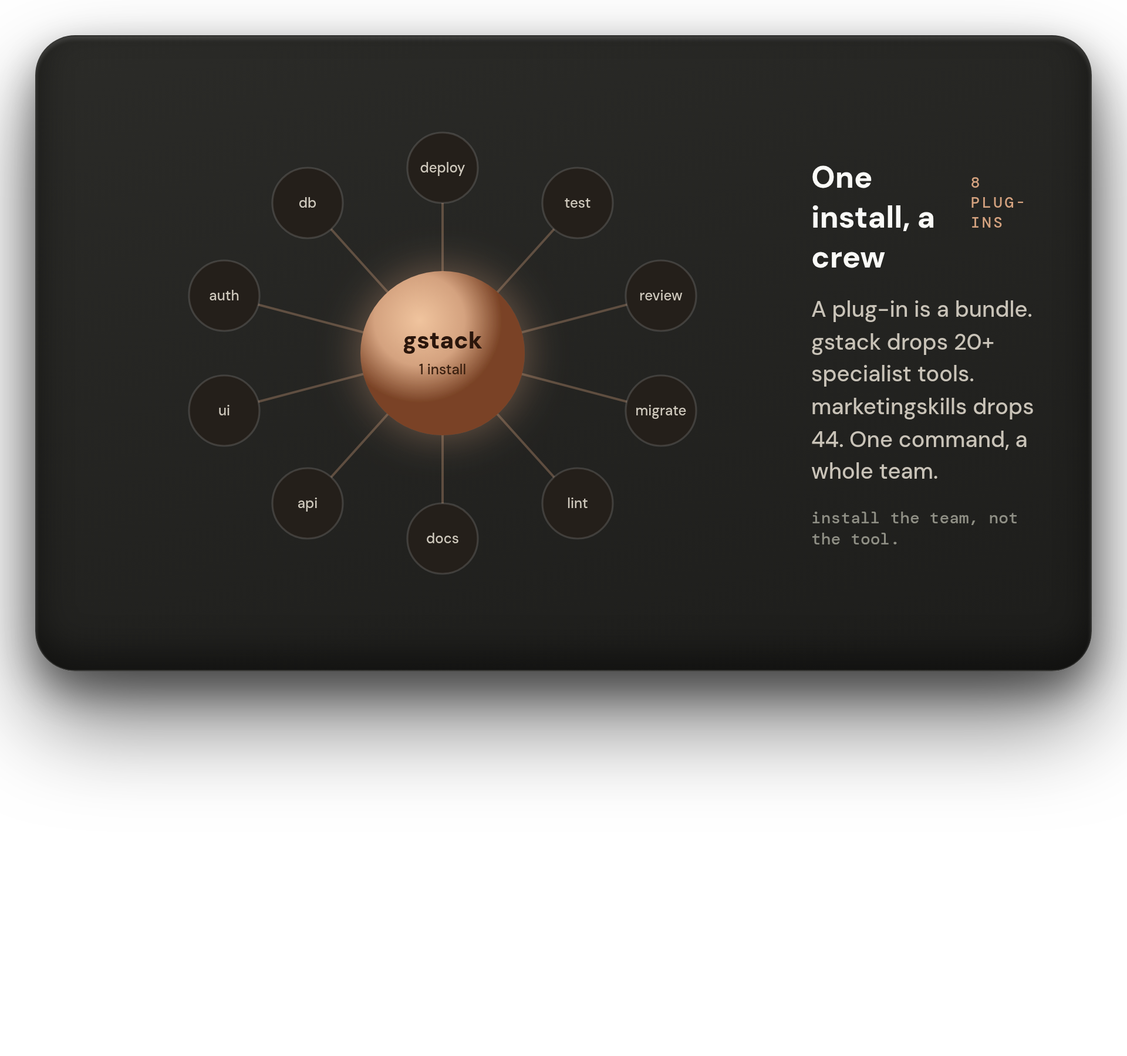
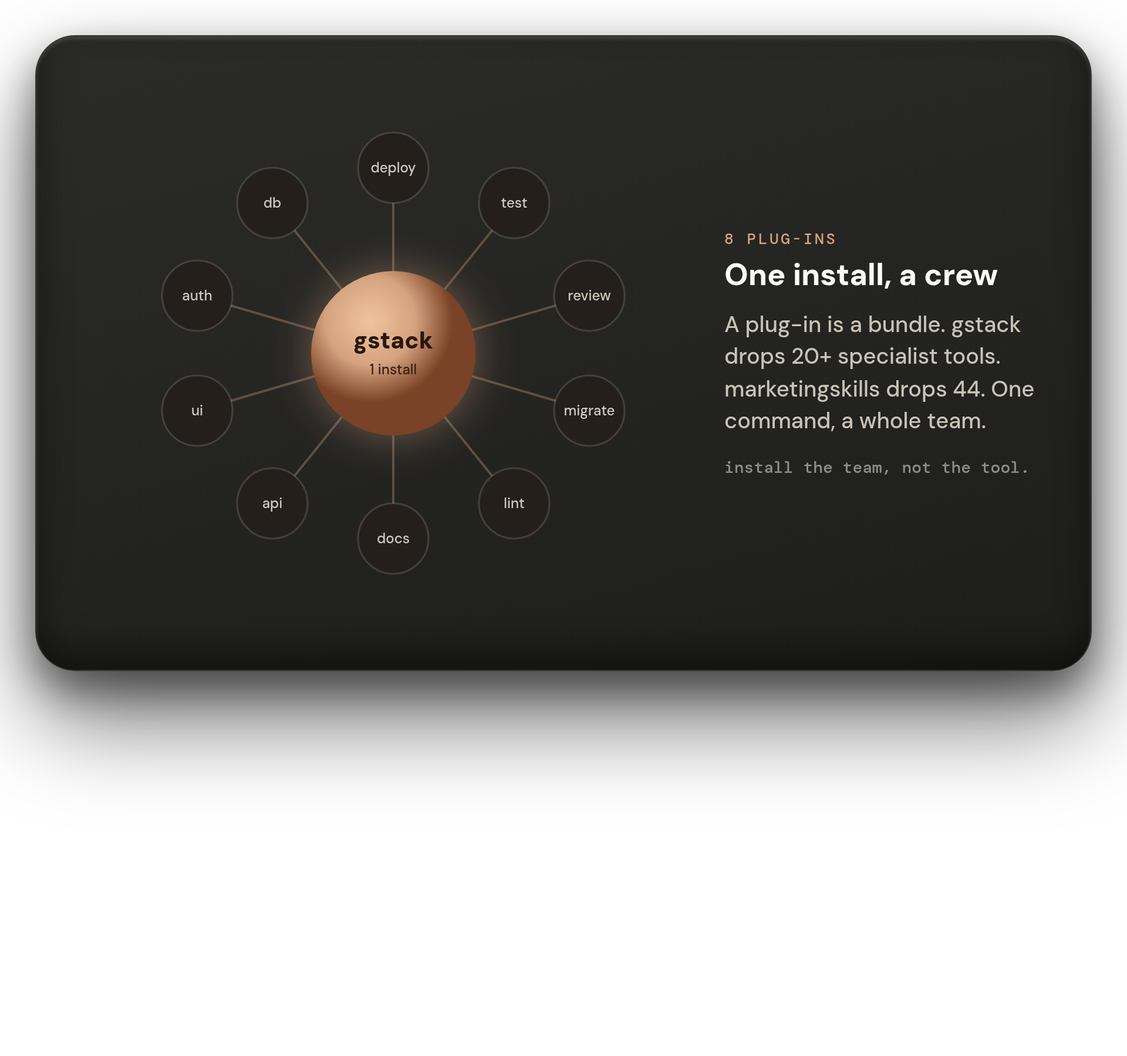
IG Scraped 3: panels sweep (29/41)
Claude-Session: https://claude.ai/code/session_014kd6D8JB5VW3pfqpgRb2H7

diff --git a/content/_hitl-src/s3src41_t3.py b/content/_hitl-src/s3src41_t3.py
@@ -1,0 +1,256 @@
+#!/usr/bin/env python3
+# HAND IT THE KEYS - IG Scraped s3src41 ("10 skills / tools to build a $10M business",
+# a list of self-hosted open-source AI agents that "actually do things") adapted to the
+# WIRE-ITS-EYES bar. The real subject: an AI that takes real actions holds the keys to your
+# business. 8 unique hand-built coded scenes, one Ultron capability each, all gated by you.
+import importlib.util, os, math
+from playwright.sync_api import sync_playwright
+ROOT="/home/user/tiberiu-claude"
+L=importlib.util.spec_from_file_location("L",f"{ROOT}/content/_hitl-src/clay3d_v4.py")
+Lm=importlib.util.module_from_spec(L); L.loader.exec_module(Lm)
+ACC="212,162,127"
+CARD='background:linear-gradient(165deg,#2b2b28,#1d1d1b);border:1px solid rgba(255,255,255,.07);border-radius:34px;box-shadow:0 42px 80px rgba(0,0,0,.55),0 16px 34px rgba(0,0,0,.44), inset 0 2.5px 3px rgba(255,255,255,.12), inset 0 -14px 30px rgba(0,0,0,.45)'
+CARDIV='background:linear-gradient(160deg,#fdfbf6,#efe6d5 62%,#e6dac4);border:1px solid rgba(120,95,60,.16);border-radius:34px;box-shadow:0 40px 70px rgba(120,95,60,.20),0 14px 28px rgba(120,95,60,.14), inset 0 2px 3px rgba(255,255,255,.95), inset 0 -16px 34px rgba(150,120,80,.12)'
+def htitle(t,tag,ink="#FAFAF7"): return (f'<div style="display:flex;align-items:baseline;justify-content:space-between;margin-bottom:14px">'
+    f'<span style="font-family:\'DM Sans\';font-weight:800;font-size:26px;color:{ink}">{t}</span>'
+    f'<span style="font-family:\'DM Mono\';font-size:13px;letter-spacing:.14em;color:rgb({ACC})">{tag}</span></div>')
+def cap(t,c="#8f8f85"): return f'<div style="font-family:\'DM Mono\';font-size:14px;color:{c};margin-top:16px">{t}</div>'
+
+# 1. SENDS - bezier flow: one DRAFT node fans into a 3-step sequence, converges into a lit INBOX
+def sends():
+    steps=[("Day 1","intro",96),("Day 3","nudge",230),("Day 6","break-up",364)]
+    edges=""; nodes=""
+    dx,dy=180,230; sx=350; ix=712,230
+    for lab,sub,y in steps:
+        # draft -> step
+        mx=(dx+sx)/2
+        edges+=f'<path d="M{dx} {dy} C{mx:.0f} {dy},{mx:.0f} {y},{sx} {y}" fill="none" stroke="rgba(212,162,127,.42)" stroke-width="2.4"/>'
+        # step -> inbox
+        mx2=(sx+180+ix[0])/2
+        edges+=f'<path d="M{sx+180} {y} C{mx2:.0f} {y},{mx2:.0f} {ix[1]},{ix[0]-66} {ix[1]}" fill="none" stroke="rgba(212,162,127,.42)" stroke-width="2.4"/>'
+        nodes+=(f'<rect x="{sx}" y="{y-30}" width="180" height="60" rx="14" fill="linear-gradient(160deg,#33302b,#211e1a)" fill-opacity="1" style="fill:#2a2724" stroke="rgba(255,255,255,.10)"/>'
+          f'<text x="{sx+20}" y="{y-4}" font-family="DM Mono" font-size="13" letter-spacing=".12em" fill="rgb({ACC})">{lab.upper()}</text>'
+          f'<text x="{sx+20}" y="{y+18}" font-family="DM Sans" font-weight="700" font-size="18" fill="#eae4d8">{sub}</text>')
+    return f'''<div style="width:900px;{CARD};padding:34px 40px 34px">
+      {htitle("It sends, not suggests","SPECTER · OUTBOUND")}
+      <svg width="820" height="460" viewBox="0 0 820 460" style="display:block">
+        <defs><radialGradient id="ib" cx="36%" cy="30%"><stop offset="0%" stop-color="#f0c49e"/><stop offset="55%" stop-color="rgb({ACC})"/><stop offset="100%" stop-color="#7a4326"/></radialGradient>
+        <filter id="ig1" x="-80%" y="-80%" width="260%" height="260%"><feDropShadow dx="0" dy="0" stdDeviation="16" flood-color="rgb({ACC})" flood-opacity="0.45"/></filter></defs>
+        {edges}
+        <rect x="30" y="{dy-34}" width="150" height="68" rx="15" fill="#221f1b" stroke="rgba(212,162,127,.34)"/>
+        <text x="105" y="{dy-6}" text-anchor="middle" font-family="DM Mono" font-size="12.5" letter-spacing=".12em" fill="rgb({ACC})">DRAFT</text>
+        <text x="105" y="{dy+16}" text-anchor="middle" font-family="DM Sans" font-weight="800" font-size="16" fill="#FAFAF7">one line</text>
+        {nodes}
+        <g filter="url(#ig1)"><circle cx="{ix[0]}" cy="{ix[1]}" r="66" fill="url(#ib)"/></g>
+        <text x="{ix[0]}" y="{ix[1]-4}" text-anchor="middle" font-family="DM Sans" font-weight="900" font-size="20" fill="#1a0f0a">SENT</text>
+        <text x="{ix[0]}" y="{ix[1]+18}" text-anchor="middle" font-family="DM Mono" font-size="11" fill="#3a2010">all 3 live</text>
+      </svg>
+      {cap("one line becomes a five-touch sequence, written and delivered.")}</div>'''
+
+# 2. BOOKS - IVORY week calendar grid, one slot booked with a confirm check
+def books():
+    days=["MON","TUE","WED","THU","FRI"]
+    rowsY=[92,150,208,266]; times=["09:00","10:30","12:00","14:00"]
+    colX=[60,196,332,468,604]; cw=118
+    grid=""
+    for ci,d in enumerate(days):
+        grid+=f'<text x="{colX[ci]+cw/2}" y="66" text-anchor="middle" font-family="DM Mono" font-size="14" letter-spacing=".1em" fill="{"#96562d" if d=="THU" else "#9c8a70"}">{d}</text>'
+    for ri,ty in enumerate(times):
+        grid+=f'<text x="30" y="{rowsY[ri]+34}" font-family="DM Mono" font-size="11.5" fill="#a89572">{ty}</text>'
+        for ci in range(5):
+            booked=(ci==3 and ri==1)
+            if booked: continue
+            grid+=f'<rect x="{colX[ci]}" y="{rowsY[ri]}" width="{cw}" height="46" rx="10" fill="rgba(150,120,80,.06)" stroke="rgba(150,120,80,.20)"/>'
+    # booked cell (THU 10:30)
+    bx,by=colX[3],rowsY[1]
+    booked=(f'<rect x="{bx}" y="{by}" width="{cw}" height="46" rx="10" fill="#96562d" filter="url(#bk)"/>'
+      f'<text x="{bx+16}" y="{by+29}" font-family="DM Sans" font-weight="800" font-size="15" fill="#fdfbf6">Discovery call</text>'
+      f'<circle cx="{bx+cw-22}" cy="{by+23}" r="13" fill="#fdfbf6"/>'
+      f'<path d="M{bx+cw-28} {by+23} l4 4 l8 -9" fill="none" stroke="#96562d" stroke-width="2.6" stroke-linecap="round" stroke-linejoin="round"/>')
+    return f'''<div style="width:900px;{CARDIV};padding:36px 42px 34px">
+      {htitle("The meeting, booked","LIVE CALENDAR","#2a2016")}
+      <svg width="740" height="330" viewBox="0 0 740 330" style="display:block;margin:0 auto">
+        <defs><filter id="bk" x="-60%" y="-60%" width="220%" height="220%"><feDropShadow dx="0" dy="6" stdDeviation="10" flood-color="rgba(150,90,45,.5)"/></filter></defs>
+        {grid}{booked}
+      </svg>
+      {cap("a yes turns into a held slot, no back-and-forth thread.","#8a745a")}</div>'''
+
+# 3. CONNECTS - radial switchboard: operator hub wired to 5 real app nodes, action LEDs live
+def connects():
+    cx,cy=430,232; Rr=182
+    apps=[("EMAIL","M2 5 L10 9 L18 5",-140),("CRM","P",-68),("DOCS","D",4),("CALENDAR","C",76),("PAYMENTS","$",148)]
+    spokes=""; chips=""
+    for nm,gl,a in apps:
+        x=cx+Rr*math.cos(math.radians(a)); y=cy+Rr*math.sin(math.radians(a))
+        spokes+=(f'<line x1="{cx}" y1="{cy}" x2="{x:.0f}" y2="{y:.0f}" stroke="rgba(212,162,127,.42)" stroke-width="2.6"/>'
+          f'<circle cx="{(cx+x)/2:.0f}" cy="{(cy+y)/2:.0f}" r="4.5" fill="rgb({ACC})" filter="url(#pd)"/>')
+        chips+=(f'<g><rect x="{x-70:.0f}" y="{y-27:.0f}" width="140" height="54" rx="14" fill="#2a2724" stroke="rgba(255,255,255,.11)"/>'
+          f'<circle cx="{x-46:.0f}" cy="{y:.0f}" r="7" fill="#241f1a" stroke="rgba(212,162,127,.5)" stroke-width="1.6"/>'
+          f'<circle cx="{x-46:.0f}" cy="{y:.0f}" r="3" fill="rgb({ACC})"/>'
+          f'<text x="{x-30:.0f}" y="{y+5:.0f}" font-family="DM Mono" font-size="13" letter-spacing=".08em" fill="#d9d5cc">{nm}</text>'
+          f'<circle cx="{x+58:.0f}" cy="{y-15:.0f}" r="4" fill="#c9a583"/></g>')
+    return f'''<div style="width:900px;{CARD};padding:34px 40px 34px">
+      {htitle("Wired into your stack","TOOL USE")}
+      <svg width="820" height="470" viewBox="0 0 820 470" style="display:block;margin:0 auto">
+        <defs><radialGradient id="hb3" cx="36%" cy="30%"><stop offset="0%" stop-color="#f0c49e"/><stop offset="55%" stop-color="rgb({ACC})"/><stop offset="100%" stop-color="#7a4326"/></radialGradient>
+        <filter id="hg3" x="-80%" y="-80%" width="260%" height="260%"><feDropShadow dx="0" dy="0" stdDeviation="18" flood-color="rgb({ACC})" flood-opacity="0.45"/></filter>
+        <filter id="pd" x="-300%" y="-300%" width="700%" height="700%"><feDropShadow dx="0" dy="0" stdDeviation="4" flood-color="rgb({ACC})" flood-opacity="0.9"/></filter></defs>
+        {spokes}
+        <g filter="url(#hg3)"><circle cx="{cx}" cy="{cy}" r="70" fill="url(#hb3)"/></g>
+        <text x="{cx}" y="{cy-4}" text-anchor="middle" font-family="DM Sans" font-weight="900" font-size="18" fill="#1a0f0a">OPERATOR</text>
+        <text x="{cx}" y="{cy+18}" text-anchor="middle" font-family="DM Mono" font-size="11" fill="#3a2010">one command</text>
+        {chips}
+      </svg>
+      {cap("email, crm, docs, calendar and payments, driven from one sentence.")}</div>'''
+
+# 4. BUDGET - semicircular gauge/dial: the router picks a tier, needle on SMART, cents readout
+def budget():
+    cx,cy,R=410,300,210
+    def pt(ang,r): return (cx+r*math.cos(math.radians(ang)), cy-r*math.sin(math.radians(ang)))
+    ticks=[("LITE","0.02c",150),("SMART","0.11c",90),("DEEP","0.40c",30)]
+    arc=f'<path d="M{cx-R} {cy} A{R} {R} 0 0 1 {cx+R} {cy}" fill="none" stroke="rgba(212,162,127,.18)" stroke-width="20" stroke-linecap="round"/>'
+    # lit arc up to SMART (from 180 down to 90)
+    ax,ay=pt(90,R)
+    arc+=f'<path d="M{cx-R} {cy} A{R} {R} 0 0 1 {ax:.0f} {ay:.0f}" fill="none" stroke="rgb({ACC})" stroke-width="20" stroke-linecap="round" filter="url(#gg4)"/>'
+    labels=""
+    for nm,cost,ang in ticks:
+        lx,ly=pt(ang,R+40); on=(nm=="SMART")
+        labels+=(f'<text x="{lx:.0f}" y="{ly:.0f}" text-anchor="middle" font-family="DM Mono" font-size="14" letter-spacing=".08em" fill="{"#FAFAF7" if on else "#8f8f85"}">{nm}</text>'
+          f'<text x="{lx:.0f}" y="{ly+22:.0f}" text-anchor="middle" font-family="DM Sans" font-weight="900" font-size="19" fill="{f"rgb({ACC})" if on else "#6f6a60"}">{cost}</text>')
+        tx0,ty0=pt(ang,R-12); tx1,ty1=pt(ang,R+2)
+        labels+=f'<line x1="{tx0:.0f}" y1="{ty0:.0f}" x2="{tx1:.0f}" y2="{ty1:.0f}" stroke="rgba(250,250,247,.3)" stroke-width="2"/>'
+    nx,ny=pt(90,R-34)
+    needle=(f'<line x1="{cx}" y1="{cy}" x2="{nx:.0f}" y2="{ny:.0f}" stroke="rgb({ACC})" stroke-width="6" stroke-linecap="round"/>'
+      f'<circle cx="{cx}" cy="{cy}" r="15" fill="#2a2724" stroke="rgb({ACC})" stroke-width="3"/>')
+    return f'''<div style="width:900px;{CARD};padding:34px 40px 30px">
+      {htitle("It budgets each job","MODEL ROUTER")}
+      <svg width="820" height="380" viewBox="0 0 820 380" style="display:block;margin:0 auto">
+        <defs><filter id="gg4" x="-40%" y="-40%" width="180%" height="180%"><feDropShadow dx="0" dy="0" stdDeviation="10" flood-color="rgb({ACC})" flood-opacity="0.5"/></filter></defs>
+        {arc}{labels}{needle}
+        <text x="{cx}" y="{cy+52}" text-anchor="middle" font-family="DM Sans" font-weight="900" font-size="30" fill="#FAFAF7">0.11c</text>
+        <text x="{cx}" y="{cy+78}" text-anchor="middle" font-family="DM Mono" font-size="12" letter-spacing=".1em" fill="#8f8f85">THIS JOB</text>
+      </svg>
+      {cap("lite for lookups, deep for judgement, you never pick a model.")}</div>'''
+
+# 5. VAULT - IVORY private ledger: 5 packed rows of what it remembers, each behind a lock LED
+def vault():
+    rows=[("ICP","Founder, 2-50 staff, IT and SaaS"),
+          ("PRICING","cents per token, Max at 19"),
+          ("BRAND VOICE","short lines, no hedging, your cadence"),
+          ("PIPELINE","34 deals, 6 in close plan"),
+          ("DOCS","product specs, blueprints, techniques")]
+    body=""
+    for i,(k,v) in enumerate(rows):
+        line="" if i==len(rows)-1 else "border-bottom:1px solid rgba(150,120,80,.20);"
+        body+=(f'<div style="display:flex;align-items:center;gap:18px;padding:15px 4px;{line}">'
+          f'<svg width="20" height="20" viewBox="0 0 24 24" style="flex-shrink:0"><rect x="4" y="10.5" width="16" height="11" rx="2.5" fill="none" stroke="#96562d" stroke-width="2.2"/><path d="M7.5 10.5 V7.5 a4.5 4.5 0 0 1 9 0 v3" fill="none" stroke="#96562d" stroke-width="2.2"/></svg>'
+          f'<span style="flex-shrink:0;width:150px;font-family:DM Mono;font-size:14px;letter-spacing:.1em;color:#96562d">{k}</span>'
+          f'<span style="flex:1;font-family:DM Sans;font-weight:600;font-size:19px;color:#2a2016">{v}</span></div>')
+    return f'''<div style="width:900px;{CARDIV};padding:34px 40px 32px">
+      {htitle("Your business, on file","PRIVATE VAULT","#2a2016")}
+      <div style="background:rgba(255,255,255,.5);border:1px solid rgba(150,120,80,.24);border-radius:20px;padding:8px 24px 12px">
+        {body}
+      </div>
+      {cap("every agent reads one locked core before it touches a thing.","#8a745a")}</div>'''
+
+# 6. CENTS - split compare: the self-hosted stack (tall red bill) vs the operator (a sliver of cents)
+def cents():
+    return f'''<div style="width:900px;{CARD};padding:34px 40px 34px">
+      {htitle("The bill, in cents","PAY PER TOKEN")}
+      <svg width="820" height="440" viewBox="0 0 820 440" style="display:block;margin:0 auto">
+        <defs>
+          <linearGradient id="badbar" x1="0" y1="0" x2="0" y2="1"><stop offset="0%" stop-color="#d0522f"/><stop offset="100%" stop-color="#8a2f18"/></linearGradient>
+          <linearGradient id="goodbar" x1="0" y1="0" x2="0" y2="1"><stop offset="0%" stop-color="#f0c49e"/><stop offset="100%" stop-color="#a86a3f"/></linearGradient>
+          <filter id="gb6" x="-60%" y="-60%" width="220%" height="220%"><feDropShadow dx="0" dy="0" stdDeviation="12" flood-color="rgb({ACC})" flood-opacity="0.5"/></filter>
+        </defs>
+        <line x1="60" y1="360" x2="760" y2="360" stroke="rgba(255,255,255,.12)" stroke-width="1.5"/>
+        <!-- competitor bill -->
+        <rect x="120" y="70" width="180" height="290" rx="12" fill="url(#badbar)"/>
+        <text x="210" y="118" text-anchor="middle" font-family="DM Sans" font-weight="900" font-size="40" fill="#fff">$2,400</text>
+        <text x="210" y="146" text-anchor="middle" font-family="DM Mono" font-size="13" letter-spacing=".1em" fill="rgba(255,235,228,.9)">PER MONTH</text>
+        {"".join(f'<text x="210" y="{190+i*34}" text-anchor="middle" font-family="DM Sans" font-size="15.5" fill="rgba(255,240,235,.92)">{t}</text>' for i,t in enumerate(["10 self-hosted repos","1 VPS you keep alive","updates and patches","the glue in between"]))}
+        <text x="210" y="392" text-anchor="middle" font-family="DM Mono" font-size="13.5" letter-spacing=".12em" fill="#e08a6a">THE STACK</text>
+        <!-- operator sliver -->
+        <rect x="520" y="330" width="180" height="30" rx="10" fill="url(#goodbar)" filter="url(#gb6)"/>
+        <text x="610" y="300" text-anchor="middle" font-family="DM Sans" font-weight="900" font-size="40" fill="#FAFAF7">cents</text>
+        <text x="610" y="326" text-anchor="middle" font-family="DM Mono" font-size="13" letter-spacing=".1em" fill="rgb({ACC})">PER TASK</text>
+        <text x="610" y="392" text-anchor="middle" font-family="DM Mono" font-size="13.5" letter-spacing=".12em" fill="rgb({ACC})">THE OPERATOR</text>
+      </svg>
+      {cap("a stack you host and babysit, or pennies for the work itself.")}</div>'''
+
+# 7. WATCH - radar sweep of account signals, ranked, first-to-know readout
+def watch():
+    cx,cy,R=210,220,190
+    rings="".join(f'<circle cx="{cx}" cy="{cy}" r="{r}" fill="none" stroke="rgba(212,162,127,.16)"/>' for r in (63,126,190))
+    blips=[("Funding",300,150),("Hiring",118,96),("Stack move",205,168),("Intent",44,120)]
+    bl=""
+    for nm,ang,dist in blips:
+        x=cx+dist*math.cos(math.radians(ang)); y=cy+dist*math.sin(math.radians(ang))
+        bl+=(f'<circle cx="{x:.0f}" cy="{y:.0f}" r="9" fill="rgb({ACC})" filter="url(#b7)"/>'
+          f'<text x="{x:.0f}" y="{y-16:.0f}" text-anchor="middle" font-family="DM Mono" font-size="12" fill="#d9d5cc">{nm}</text>')
+    readout=('<div style="background:#211d19;border:1px solid rgba(212,162,127,.3);border-radius:16px;padding:18px 20px">'
+      f'<div style="display:flex;justify-content:space-between;align-items:baseline;margin-bottom:10px"><span style="font-family:DM Sans;font-weight:800;font-size:18px;color:#FAFAF7">You knew</span><span style="font-family:DM Mono;font-size:14px;color:rgb({ACC})">Tue 08:04</span></div>'
+      f'<div style="display:flex;justify-content:space-between;align-items:baseline"><span style="font-family:DM Sans;font-size:17px;color:#8f8f85">The press</span><span style="font-family:DM Mono;font-size:14px;color:#8f8f85">Fri 11:20</span></div>'
+      f'<div style="border-top:1px solid rgba(255,255,255,.08);margin-top:14px;padding-top:14px;font-family:DM Sans;font-weight:900;font-size:30px;color:rgb({ACC})">3 days ahead</div></div>')
+    return f'''<div style="width:900px;{CARD};padding:34px 40px 34px;display:flex;align-items:center;gap:30px">
+      <svg width="420" height="420" viewBox="0 0 420 420">
+        <defs><radialGradient id="sw7" cx="50%" cy="50%"><stop offset="0%" stop-color="rgba(212,162,127,.5)"/><stop offset="100%" stop-color="rgba(212,162,127,0)"/></radialGradient>
+        <filter id="b7" x="-200%" y="-200%" width="500%" height="500%"><feDropShadow dx="0" dy="0" stdDeviation="7" flood-color="rgb({ACC})" flood-opacity="0.9"/></filter></defs>
+        <circle cx="{cx}" cy="{cy}" r="{R}" fill="#1a1816"/>{rings}
+        <line x1="{cx-R}" y1="{cy}" x2="{cx+R}" y2="{cy}" stroke="rgba(212,162,127,.12)"/><line x1="{cx}" y1="{cy-R}" x2="{cx}" y2="{cy+R}" stroke="rgba(212,162,127,.12)"/>
+        <path d="M{cx} {cy} L{cx} {cy-R} A{R} {R} 0 0 1 {cx+R*math.sin(math.radians(64)):.0f} {cy-R*math.cos(math.radians(64)):.0f} Z" fill="url(#sw7)"/>
+        {bl}<circle cx="{cx}" cy="{cy}" r="7" fill="rgb({ACC})"/></svg>
+      <div style="flex:1">
+        {htitle("It watches on triggers","CORTEX · SIGNALS")}
+        {readout}
+        {cap("funding, hiring, intent, surfaced the morning it happens.")}
+      </div></div>'''
+
+# 8. GATE - checkpoint: an action queued at a barrier, held for your approve stamp, one blocked
+def gate():
+    return f'''<div style="width:900px;{CARD};padding:34px 40px 36px">
+      {htitle("Nothing ships unasked","HUMAN GATE")}
+      <svg width="820" height="440" viewBox="0 0 820 440" style="display:block;margin:0 auto">
+        <defs><radialGradient id="stamp" cx="38%" cy="32%"><stop offset="0%" stop-color="#f0c49e"/><stop offset="55%" stop-color="rgb({ACC})"/><stop offset="100%" stop-color="#7a4326"/></radialGradient>
+        <filter id="sg8" x="-80%" y="-80%" width="260%" height="260%"><feDropShadow dx="0" dy="0" stdDeviation="20" flood-color="rgb({ACC})" flood-opacity="0.4"/></filter></defs>
+        <!-- blocked auto-attempt (severed, subordinated top) -->
+        <g opacity="0.8">
+          <rect x="40" y="52" width="300" height="52" rx="13" fill="rgba(200,70,35,.08)" stroke="rgba(200,70,35,.45)"/>
+          <text x="60" y="84" font-family="DM Sans" font-size="17" fill="#c98a76" text-decoration="line-through">auto-send, unsupervised</text>
+          <line x1="352" y1="78" x2="392" y2="78" stroke="rgb(200,70,35)" stroke-width="3" stroke-dasharray="4 6"/>
+          <line x1="372" y1="66" x2="372" y2="90" stroke="rgb(200,70,35)" stroke-width="3"/>
+          <text x="420" y="84" font-family="DM Mono" font-size="12.5" letter-spacing=".08em" fill="#c84623">BLOCKED</text>
+        </g>
+        <!-- the queued action -->
+        <rect x="40" y="196" width="290" height="90" rx="18" fill="linear-gradient(160deg,#33302b,#211e1a)" style="fill:#2a2724" stroke="rgba(255,255,255,.12)"/>
+        <text x="62" y="234" font-family="DM Mono" font-size="12.5" letter-spacing=".12em" fill="rgb({ACC})">QUEUED</text>
+        <text x="62" y="262" font-family="DM Sans" font-weight="800" font-size="22" fill="#FAFAF7">Send 240 emails</text>
+        <!-- track into the barrier -->
+        <path d="M330 241 H452" stroke="rgb({ACC})" stroke-width="5" stroke-dasharray="2 12" stroke-linecap="round"/>
+        <!-- barrier posts -->
+        <rect x="470" y="150" width="20" height="182" rx="6" fill="#3a352f" stroke="rgba(212,162,127,.4)"/>
+        <rect x="560" y="150" width="20" height="182" rx="6" fill="#3a352f" stroke="rgba(212,162,127,.4)"/>
+        <rect x="470" y="150" width="110" height="26" rx="7" fill="rgb({ACC})"/>
+        <text x="525" y="358" text-anchor="middle" font-family="DM Mono" font-size="12.5" letter-spacing=".1em" fill="#8f8f85">HELD</text>
+        <!-- approve stamp -->
+        <g filter="url(#sg8)"><circle cx="690" cy="241" r="96" fill="url(#stamp)"/></g>
+        <circle cx="690" cy="241" r="96" fill="none" stroke="rgba(26,15,10,.25)" stroke-width="2"/>
+        <path d="M654 244 l22 22 l46 -54" fill="none" stroke="#1a0f0a" stroke-width="11" stroke-linecap="round" stroke-linejoin="round"/>
+        <text x="690" y="316" text-anchor="middle" font-family="DM Sans" font-weight="800" font-size="17" fill="#FAFAF7">your tap</text>
+      </svg>
+      {cap("full access, held on your reins, one approve away from live.")}</div>'''
+
+PANELS={"sends":sends(),"books":books(),"connects":connects(),"budget":budget(),
+        "vault":vault(),"cents":cents(),"watch":watch(),"gate":gate()}
+if __name__=="__main__":
+    outd=f"{ROOT}/content/_hitl-src/models_clay/s3src41"; os.makedirs(outd,exist_ok=True)
+    with sync_playwright() as pw:
+        b=pw.chromium.launch(executable_path="/opt/pw-browsers/chromium",args=["--no-sandbox","--no-proxy-server"])
+        pg=b.new_page(viewport={"width":960,"height":900},device_scale_factor=2)
+        for name,html in PANELS.items():
+            full=f"<!DOCTYPE html><html><head><meta charset='utf-8'><style>{Lm.css(ACC)}</style></head><body style='padding:30px'>{html}</body></html>"
+            pg.set_content(full); pg.wait_for_timeout(400)
+            pg.screenshot(path=f"{outd}/{name}.png",omit_background=True,full_page=True)
+            print("rendered",name)
+        b.close()
+    print("done")

diff --git a/content/_hitl-src/s3src29_t3.py b/content/_hitl-src/s3src29_t3.py
@@ -73,34 +73,37 @@ def skills():
         col="#FAFAF7" if on else "#b0aa9e"
         glow="box-shadow:0 0 20px rgba(212,162,127,.35);" if on else ""
         chips+=f'''<div style="{glow}background:{bg};border:1.5px solid {bd};border-radius:11px;padding:11px 15px;font-family:'DM Mono';font-size:16px;color:{col}">{c}</div>'''
-    steps=[("find",190),("enrich",352),("rank",514)]
+    steps=[("find","search the web",190),("enrich","add signals",352),("rank","score fit",514)]
     stepsvg=""
-    for nm,x in steps:
-        stepsvg+=(f'<rect x="{x}" y="90" width="140" height="56" rx="14" fill="linear-gradient(160deg,#3a352f,#241f1a)"/>'
-          f'<rect x="{x}" y="90" width="140" height="56" rx="14" fill="#2b2723" stroke="rgba(255,255,255,.10)"/>'
-          f'<text x="{x+70}" y="124" text-anchor="middle" font-family="DM Sans" font-weight="700" font-size="19" fill="#e6e0d4">{nm}</text>')
+    for nm,sub,x in steps:
+        stepsvg+=(f'<rect x="{x}" y="132" width="140" height="88" rx="16" fill="#2b2723" stroke="rgba(255,255,255,.10)"/>'
+          f'<text x="{x+70}" y="172" text-anchor="middle" font-family="DM Sans" font-weight="700" font-size="20" fill="#e6e0d4">{nm}</text>'
+          f'<text x="{x+70}" y="197" text-anchor="middle" font-family="DM Mono" font-size="12" fill="#8f8f85">{sub}</text>')
     arrows=""
     for ax in (166,328,490,652):
-        arrows+=f'<path d="M{ax} 118 h20" stroke="rgb({ACC})" stroke-width="3" stroke-linecap="round"/><path d="M{ax+15} 111 l7 7 -7 7" fill="none" stroke="rgb({ACC})" stroke-width="3" stroke-linecap="round" stroke-linejoin="round"/>'
+        arrows+=f'<path d="M{ax} 176 h20" stroke="rgb({ACC})" stroke-width="3" stroke-linecap="round"/><path d="M{ax+15} 169 l7 7 -7 7" fill="none" stroke="rgb({ACC})" stroke-width="3" stroke-linecap="round" stroke-linejoin="round"/>'
     return f'''<div style="width:900px;{CARD};padding:36px 40px 34px">
       {htitle("One word runs the recipe","8 SKILLS")}
-      <div style="display:flex;flex-wrap:wrap;gap:11px;margin-bottom:26px">{chips}</div>
-      <svg width="820" height="236" viewBox="0 0 820 236">
+      <div style="display:flex;flex-wrap:wrap;gap:11px;margin-bottom:12px">{chips}</div>
+      <svg width="820" height="252" viewBox="0 0 820 252">
         <defs><radialGradient id="out3" cx="36%" cy="30%"><stop offset="0%" stop-color="#f0c49e"/><stop offset="55%" stop-color="rgb({ACC})"/><stop offset="100%" stop-color="#7a4326"/></radialGradient>
         <filter id="og3" x="-80%" y="-80%" width="260%" height="260%"><feDropShadow dx="0" dy="0" stdDeviation="16" flood-color="rgb({ACC})" flood-opacity="0.4"/></filter></defs>
-        <rect x="10" y="88" width="146" height="60" rx="15" fill="rgba(212,162,127,.14)" stroke="rgb({ACC})" stroke-width="1.8"/>
-        <text x="83" y="115" text-anchor="middle" font-family="DM Mono" font-size="18" fill="#FAFAF7">/brief</text>
-        <text x="83" y="136" text-anchor="middle" font-family="DM Mono" font-size="11.5" fill="rgb({ACC})">1 command</text>
+        <path d="M83 8 C83 48,83 60,83 96" fill="none" stroke="rgba(212,162,127,.5)" stroke-width="2.4" stroke-dasharray="3 7"/>
+        <path d="M76 88 l7 10 7 -10" fill="none" stroke="rgb({ACC})" stroke-width="2.4" stroke-linecap="round" stroke-linejoin="round"/>
+        <text x="150" y="52" font-family="DM Mono" font-size="13" letter-spacing=".08em" fill="#8f8f85">the lit shortcut unfolds into a run</text>
+        <rect x="13" y="132" width="140" height="88" rx="16" fill="rgba(212,162,127,.14)" stroke="rgb({ACC})" stroke-width="1.8"/>
+        <text x="83" y="172" text-anchor="middle" font-family="DM Mono" font-size="19" fill="#FAFAF7">/brief</text>
+        <text x="83" y="197" text-anchor="middle" font-family="DM Mono" font-size="12" fill="rgb({ACC})">1 command</text>
         {stepsvg}{arrows}
-        <g filter="url(#og3)"><circle cx="734" cy="118" r="58" fill="url(#out3)"/></g>
-        <text x="734" y="113" text-anchor="middle" font-family="DM Sans" font-weight="900" font-size="18" fill="#2a160c">brief</text>
-        <text x="734" y="134" text-anchor="middle" font-family="DM Mono" font-size="11" fill="#3a2010">1 page</text>
+        <g filter="url(#og3)"><circle cx="734" cy="176" r="62" fill="url(#out3)"/></g>
+        <text x="734" y="171" text-anchor="middle" font-family="DM Sans" font-weight="900" font-size="19" fill="#2a160c">brief</text>
+        <text x="734" y="193" text-anchor="middle" font-family="DM Mono" font-size="11" fill="#3a2010">1 page</text>
       </svg>
       {cap("/brief becomes find, enrich, rank, write. a workflow behind each shortcut.")}</div>'''
 
 # 4. PLUGINS - radial burst: one install (gstack) explodes into a whole crew of member tools
 def plugins():
-    cx,cy=306,236; rx,ry=196,158
+    cx,cy=268,236; rx,ry=176,158
     members=["deploy","test","review","migrate","lint","docs","api","ui","auth","db"]
     spokes=""; nodes=""
     n=len(members)
@@ -110,8 +113,8 @@ def plugins():
         spokes+=f'<line x1="{cx}" y1="{cy}" x2="{x:.0f}" y2="{y:.0f}" stroke="rgba(212,162,127,.34)" stroke-width="2"/>'
         nodes+=(f'<circle cx="{x:.0f}" cy="{y:.0f}" r="30" fill="#241f1a" stroke="rgba(255,255,255,.14)" stroke-width="1.6"/>'
           f'<text x="{x:.0f}" y="{y+4:.0f}" text-anchor="middle" font-family="DM Mono" font-size="12" fill="#cfc9bd">{m}</text>')
-    return f'''<div style="width:900px;{CARD};padding:34px 40px 34px;display:flex;align-items:center;gap:8px">
-      <svg width="612" height="472" viewBox="0 0 612 472">
+    return f'''<div style="width:900px;{CARD};padding:34px 36px 34px;display:flex;align-items:center;gap:14px">
+      <svg width="536" height="472" viewBox="0 0 536 472" style="flex-shrink:0">
         <defs><radialGradient id="hubp" cx="36%" cy="30%"><stop offset="0%" stop-color="#f0c49e"/><stop offset="55%" stop-color="rgb({ACC})"/><stop offset="100%" stop-color="#7a4326"/></radialGradient>
         <filter id="hgp" x="-80%" y="-80%" width="260%" height="260%"><feDropShadow dx="0" dy="0" stdDeviation="18" flood-color="rgb({ACC})" flood-opacity="0.45"/></filter></defs>
         {spokes}
@@ -119,8 +122,9 @@ def plugins():
         <text x="{cx}" y="{cy-4}" text-anchor="middle" font-family="DM Sans" font-weight="900" font-size="20" fill="#2a160c">gstack</text>
         <text x="{cx}" y="{cy+18}" text-anchor="middle" font-family="DM Mono" font-size="12" fill="#3a2010">1 install</text>
         {nodes}</svg>
-      <div style="flex:1;padding-right:6px">
-        {htitle("One install, a crew","8 PLUG-INS")}
+      <div style="flex:1;padding-right:4px">
+        <div style="font-family:'DM Mono';font-size:13px;letter-spacing:.14em;color:rgb({ACC});margin-bottom:8px">8 PLUG-INS</div>
+        <div style="font-family:'DM Sans';font-weight:800;font-size:26px;color:#FAFAF7;line-height:1.1;margin-bottom:14px">One install, a crew</div>
         <div style="font-family:'DM Sans';font-size:19px;color:#c9c3b8;line-height:1.45">A plug-in is a bundle. gstack drops 20+ specialist tools. marketingskills drops 44. One command, a whole team.</div>
         {cap("install the team, not the tool.")}</div></div>'''
 

diff --git a/content/_hitl-src/build_s3src41.py b/content/_hitl-src/build_s3src41.py
@@ -1,0 +1,28 @@
+#!/usr/bin/env python3
+# HAND IT THE KEYS - IG Scraped s3src41 ("10 skills / tools to build a $10M business", a list of
+# self-hosted open-source AI agents that actually DO things) adapted to Ultron. The real subject:
+# an AI that takes real actions is holding the keys to your business. Give them to one operator
+# that picks the model, remembers only what is yours, costs cents, and parks every move for your tap.
+import importlib.util
+spec=importlib.util.spec_from_file_location("T2","/home/user/tiberiu-claude/content/_hitl-src/build_team_3d.py")
+T2=importlib.util.module_from_spec(spec); spec.loader.exec_module(T2)
+wo=lambda s:(s,T2.WHITE); co=lambda s:(s,T2.CORAL); mu=lambda s:(s,T2.MUTED)
+M="/home/user/tiberiu-claude/content/_hitl-src/models_clay/s3src41"; LIB=T2.LIB
+PREMIUM=1
+TITLE="HAND IT THE KEYS"
+T2.ACCENT=(212, 162, 127); T2.CORAL=T2.ACCENT
+T2.OBJ_THR=30
+T2.COVER=dict(head=[[wo('An AI that acts')],[co('holds your keys.')]])
+T2.CONTENT=[
+ ('THE INBOX KEY', [[wo('It sends the sequence.')],[co('It does not suggest it.')]], 'One line becomes a five-touch follow-up, written and delivered for you.', [co('No copy-paste.')], f"{M}/sends.png", 1.0),
+ ('THE CALENDAR KEY', [[wo('It books the call')],[co('into your week.')]], 'A yes lands and the meeting is on your calendar before you refresh.', [co('The slot, held.')], f"{M}/books.png", 1.0),
+ ('THE STACK KEY', [[wo('It touches your tools.')],[co('All of them.')]], 'Email, CRM, docs, calendar and payments, driven from one plain sentence.', [co('It acts on tools.')], f"{M}/connects.png", 1.0),
+ ('THE MODEL KEY', [[wo('It never overpays')],[co('for a thought.')]], 'The router reads each job and picks the cheapest tier that can finish it.', [co('Cents, not dollars.')], f"{M}/budget.png", 1.0),
+ ('THE MEMORY KEY', [[wo('It remembers your')],[co('business, not the web.')]], 'ICP, pricing, brand voice and deals live in one private vault it reads first.', [co('Nothing forgets you.')], f"{M}/vault.png", 1.0),
+ ('THE PRICE KEY', [[wo('The stack costs thousands.')],[co('This costs cents.')]], 'Ten self-hosted repos and a VPS you babysit, or one operator billed per token.', [co('Pay for work done.')], f"{M}/cents.png", 1.0),
+ ('THE SIGNAL KEY', [[wo('It saw the round')],[co('before the press did.')]], 'Funding, hiring, stack and intent on your accounts, watched on triggers.', [co('First to know.')], f"{M}/watch.png", 1.0),
+ ('THE LAST KEY', [[wo('It holds every send')],[co('for your tap.')]], 'It can touch anything, but nothing external ships until you approve it.', [co('You stay in control.')], f"{M}/gate.png", 1.0),
+]
+T2.CTA=("SAVE THIS", [[wo('Want the keys?')],[co('comment OPERATOR.')]], "/home/user/tiberiu-claude/content/_hitl-src/_templates/cta/cta-operator.png", 0.82)
+T2.CLOSE=dict(l1='Save this before you',l2='self-host a tenth repo.',q='How many keys are you still holding alone?')
+MARK2="claude"
